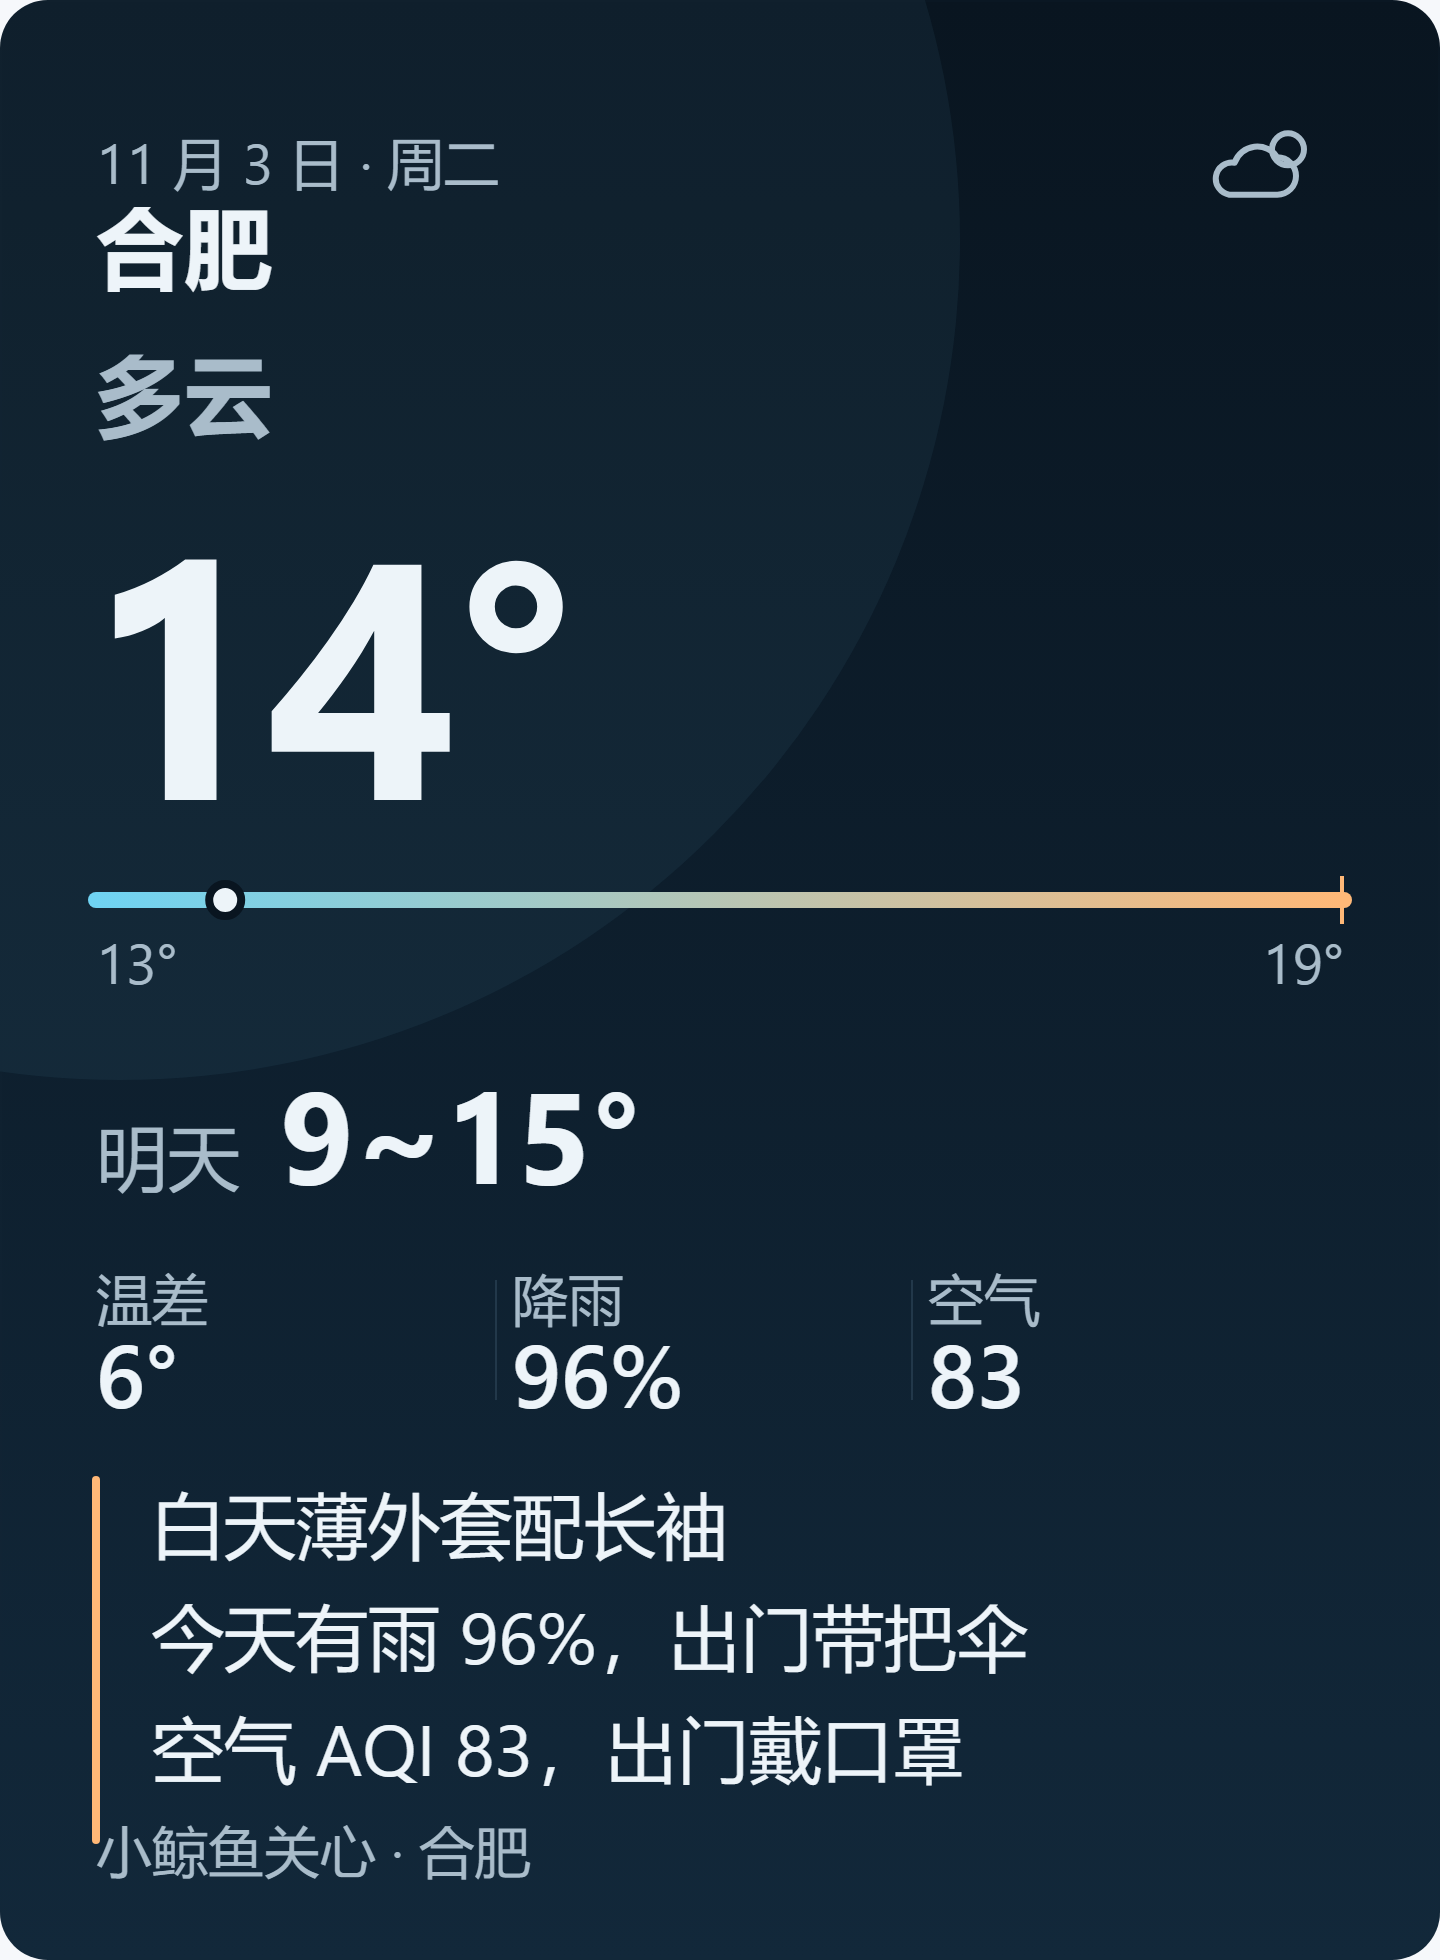
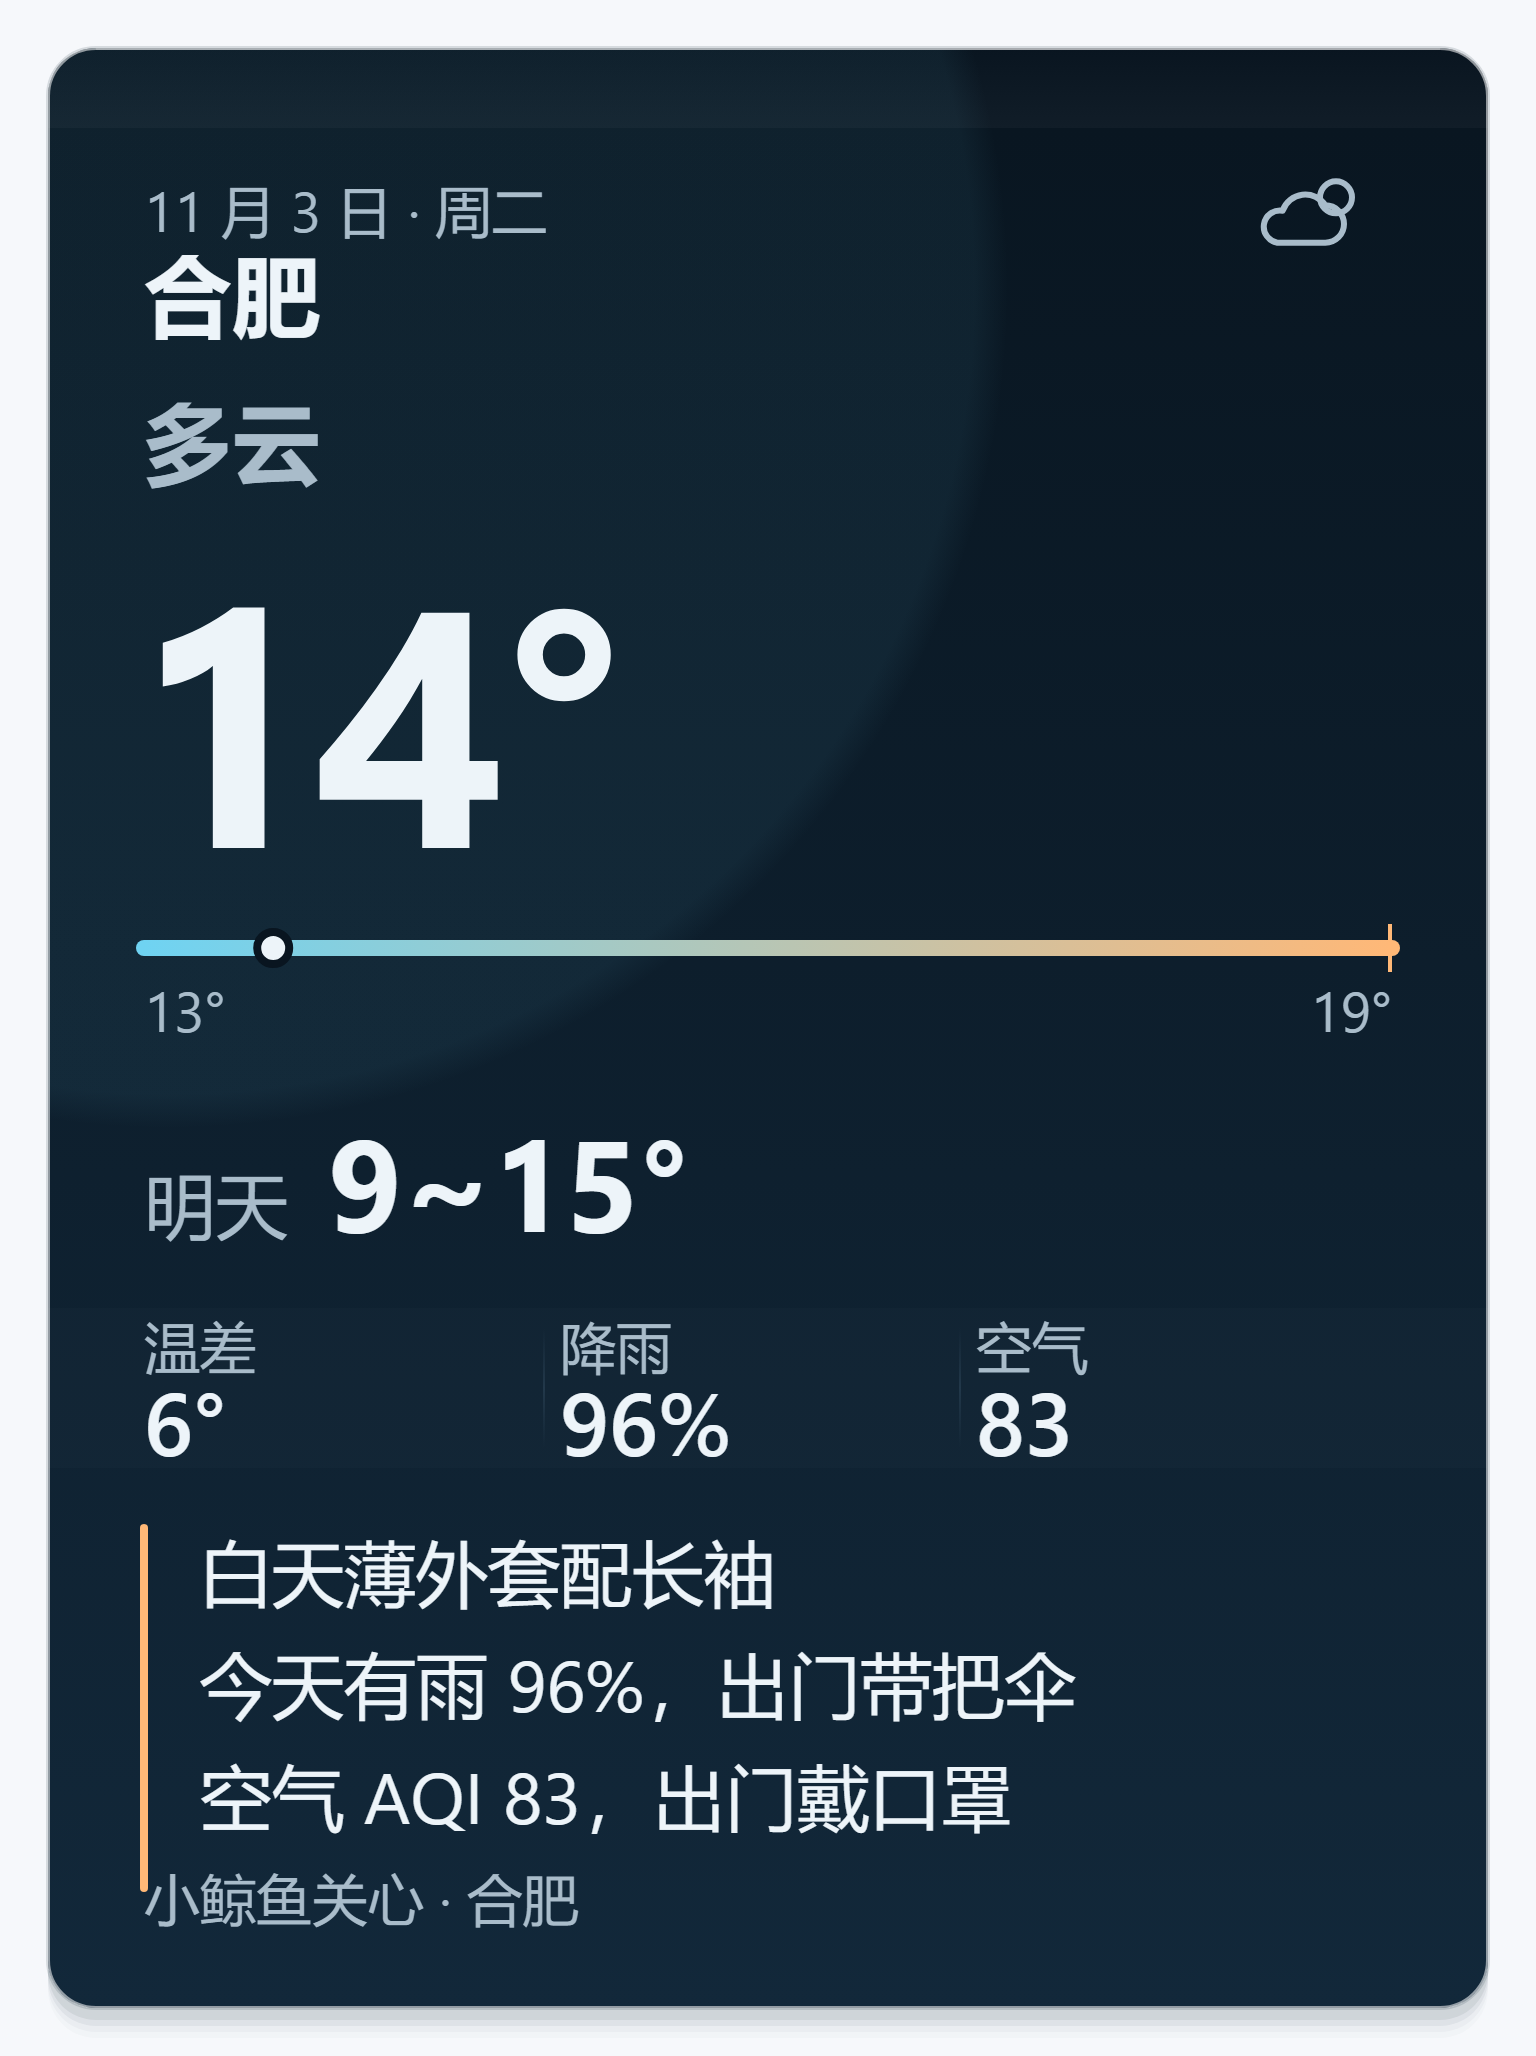
feat: 落地哑光纸质感（顶光带 / 收口 / 阶梯投影）+ 光斑改径向衰减

diff --git a/lib/card.js b/lib/card.js
@@ -75,6 +75,22 @@ const deg = (value) => (value == null || !Number.isFinite(Number(value)) ? '' : 
 
 const isNum = (value) => value != null && Number.isFinite(Number(value));
 
+// ── 质感 A · 哑光纸（notes/design/2026-11-18-texture-v2.md §4）──────────
+// 表皮全部落在「内侧 1px」与低透明度均匀明度上：只有 linearGradient / radialGradient，
+// 一个 filter 都没有（§8：默认方案 0 个 filter 是本次交付最硬的一条性质）。
+const SKIN = {
+  topPx: 40,        // 顶部白坡的高度（这段是边距，无字）
+  topAlpha: 0.03,   // 顶部白坡顶端的白
+  toneAlpha: 0.015, // 数据带均匀明度台阶
+  tonePad: 10,      // 台阶比数据带上下各多 10px
+  topRim: 0.04,     // 顶边 1px 接光
+  bottomRim: 0.06,  // 底边 1px 落影
+};
+
+const rgbOf = (hex) => [1, 3, 5].map((i) => parseInt(hex.slice(i, i + 2), 16));
+const hexOf = (channels) => '#' + channels.map((v) => Math.round(v).toString(16).padStart(2, '0')).join('').toUpperCase();
+const lerpRgb = (from, to, t) => from.map((v, i) => v + (to[i] - v) * t);
+
 /** 中文字宽估计：CJK / 全角标点 1em，数字与拉丁半角；只用于折行。 */
 function charW(ch, size) {
   const code = ch.codePointAt(0);
@@ -288,7 +304,7 @@ export function buildWeatherCardSvg(data = {}, profile = {}, opts = {}) {
     if (index > 0) {
       const ruleX = [248, 456][index - 1];
       nodes.push('<line x1="' + ruleX + '" y1="' + bandTop + '" x2="' + ruleX + '" y2="' + bandBottom
-        + '" stroke="' + p.rule + '" stroke-width="1"/>');
+        + '" stroke="url(#' + theme + '-rule-fade)" stroke-width="1"/>');
     }
     nodes.push(textNode(x, labelY, cell.label, { size: SIZE.label, fill: p.ink2 }));
     nodes.push(textNode(x, valueY, cell.value, { size: SIZE.h3, fill: p.ink, weight: 600 }));
@@ -322,34 +338,66 @@ export function buildWeatherCardSvg(data = {}, profile = {}, opts = {}) {
   }
   nodes.push(textNode(48, 936, BRAND + ' · ' + place, { size: SIZE.label, fill: p.ink2 }));
 
-  // 背景与光斑
-  const bg = [
-    theme === 'dark'
-      ? '<linearGradient id="' + theme + '-bg" x1="0" y1="0" x2="0" y2="1"><stop offset="0" stop-color="' + p.bgTop + '"/><stop offset="1" stop-color="' + p.bgBottom + '"/></linearGradient>'
-      : '',
-    '<linearGradient id="' + theme + '-range" gradientUnits="userSpaceOnUse" x1="48" y1="0" x2="672" y2="0"><stop offset="0" stop-color="' + p.cool + '"/><stop offset="1" stop-color="' + p.warm + '"/></linearGradient>',
-  ].filter(Boolean).join('');
+  // ── 表皮 A · 哑光纸：顶坡 / 收口 / 数据带台阶 ─────────────────────────
+  // 底色渐变本来就铺满全卡，顶部 40px 的白坡折进它的 stop 里（少一层矩形、也不改几何）：
+  // y=0 白 0% → y=40 白 3%，40 处硬落回底色 —— §4 的「只有顶部有坡」。
+  const bgFrom = rgbOf(p.bgTop);
+  const bgTo = rgbOf(p.bgBottom);
+  const bgAt = (y) => lerpRgb(bgFrom, bgTo, y / H);
+  const slopeEdge = Number((SKIN.topPx / H).toFixed(4));
+  const bgStops = [
+    [0, hexOf(bgAt(0))],
+    [slopeEdge, hexOf(lerpRgb(bgAt(SKIN.topPx), [255, 255, 255], SKIN.topAlpha))],
+    [slopeEdge, hexOf(bgAt(SKIN.topPx))],
+    [1, hexOf(bgAt(H))],
+  ];
+  const bgGradient = '<linearGradient id="' + theme + '-bg" x1="0" y1="0" x2="0" y2="1">'
+    + bgStops.map(([offset, color]) => '<stop offset="' + offset + '" stop-color="' + color + '"/>').join('')
+    + '</linearGradient>';
 
-  const glow = theme === 'dark'
-    ? (late ? p.glowLate : p.glowEarly)
-    : p.wash;
+  // 数据带均匀明度台阶（均匀明度不是纹理，允许铺到字底下，§10）
+  const toneTop = bandTop - SKIN.tonePad;
+  const toneHeight = bandBottom - bandTop + SKIN.tonePad * 2;
+  const toneLayer = '<rect x="0" y="' + toneTop + '" width="' + W + '" height="' + toneHeight
+    + '" fill="#FFFFFF" opacity="' + SKIN.toneAlpha + '"/>';
 
-  const layers = [];
-  if (theme === 'light' && p.wash) {
-    layers.push('<circle cx="' + p.wash.cx + '" cy="' + p.wash.cy + '" r="' + p.wash.r + '" fill="' + p.wash.color
-      + '" opacity="' + p.wash.opacity + '"/>');
-  } else if (glow) {
-    layers.push('<circle cx="' + glow.cx + '" cy="' + glow.cy + '" r="' + glow.r + '" fill="' + glow.color
-      + '" opacity="' + glow.opacity + '"/>');
-  }
+  // 数据带 3 格竖线改为竖向渐隐（两端 0 / 中间 1，§4 ③）
+  const ruleFade = '<linearGradient id="' + theme + '-rule-fade" gradientUnits="userSpaceOnUse" x1="0" y1="' + bandTop
+    + '" x2="0" y2="' + bandBottom + '"><stop offset="0" stop-color="' + p.rule + '" stop-opacity="0"/>'
+    + '<stop offset="0.5" stop-color="' + p.rule + '" stop-opacity="1"/>'
+    + '<stop offset="1" stop-color="' + p.rule + '" stop-opacity="0"/></linearGradient>';
 
+  // 光斑：位置 / 半径 / 颜色不变，实心圆换成径向衰减 —— 去掉那圈 1px 硬边（缺陷修复，与方向无关）。
+  // 衰减只做在边缘一圈（GLOW_EDGE→1）而不是整幅：Chrome 会给大面积低透明度渐变加抖动，
+  // 整幅衰减会把卡图从 217KB 顶到 444KB（单图上限 300KB，见回执实测）；
+  // 边缘带的斜率也足够 —— 原来 1 像素掉 12/255，现在摊到约 17px 上，肉眼已是柔边。
+  const glow = theme === 'dark' ? (late ? p.glowLate : p.glowEarly) : p.wash;
+  const GLOW_EDGE = 0.96;
+  const glowGradient = glow
+    ? '<radialGradient id="' + theme + '-glow" gradientUnits="userSpaceOnUse" cx="' + glow.cx + '" cy="' + glow.cy
+      + '" r="' + glow.r + '"><stop offset="0" stop-color="' + glow.color + '" stop-opacity="' + glow.opacity + '"/>'
+      + '<stop offset="' + GLOW_EDGE + '" stop-color="' + glow.color + '" stop-opacity="' + glow.opacity + '"/>'
+      + '<stop offset="1" stop-color="' + glow.color + '" stop-opacity="0"/></radialGradient>'
+    : '';
+  const glowLayer = glow
+    ? '<circle cx="' + glow.cx + '" cy="' + glow.cy + '" r="' + glow.r + '" fill="url(#' + theme + '-glow)"/>'
+    : '';
+
+  // 收口：光在上 —— 顶边接光（白 4%）、底边落影（黑 6%），各 1px，画在内侧
+  const rims = '<line x1="0" y1="0.5" x2="' + W + '" y2="0.5" stroke="#FFFFFF" stroke-opacity="' + SKIN.topRim + '" stroke-width="1"/>'
+    + '<line x1="0" y1="' + (H - 0.5) + '" x2="' + W + '" y2="' + (H - 0.5) + '" stroke="#000000" stroke-opacity="' + SKIN.bottomRim + '" stroke-width="1"/>';
+
+  const rangeGradient = '<linearGradient id="' + theme + '-range" gradientUnits="userSpaceOnUse" x1="48" y1="0" x2="672" y2="0">'
+    + '<stop offset="0" stop-color="' + p.cool + '"/><stop offset="1" stop-color="' + p.warm + '"/></linearGradient>';
 
   return '<svg xmlns="http://www.w3.org/2000/svg" width="' + W + '" height="' + H + '" viewBox="0 0 ' + W + ' ' + H
     + '" font-family="' + FONT.replace(/"/g, '&quot;') + '">'
-    + '<defs>' + bg + '</defs>'
-    + '<rect width="' + W + '" height="' + H + '" fill="' + (theme === 'dark' ? 'url(#' + theme + '-bg)' : p.bgTop) + '"/>'
-    + layers.join('')
+    + '<defs>' + bgGradient + rangeGradient + ruleFade + glowGradient + '</defs>'
+    + '<rect width="' + W + '" height="' + H + '" fill="url(#' + theme + '-bg)"/>'
+    + toneLayer
+    + glowLayer
     + nodes.join('')
+    + rims
     + '</svg>';
 }
 
